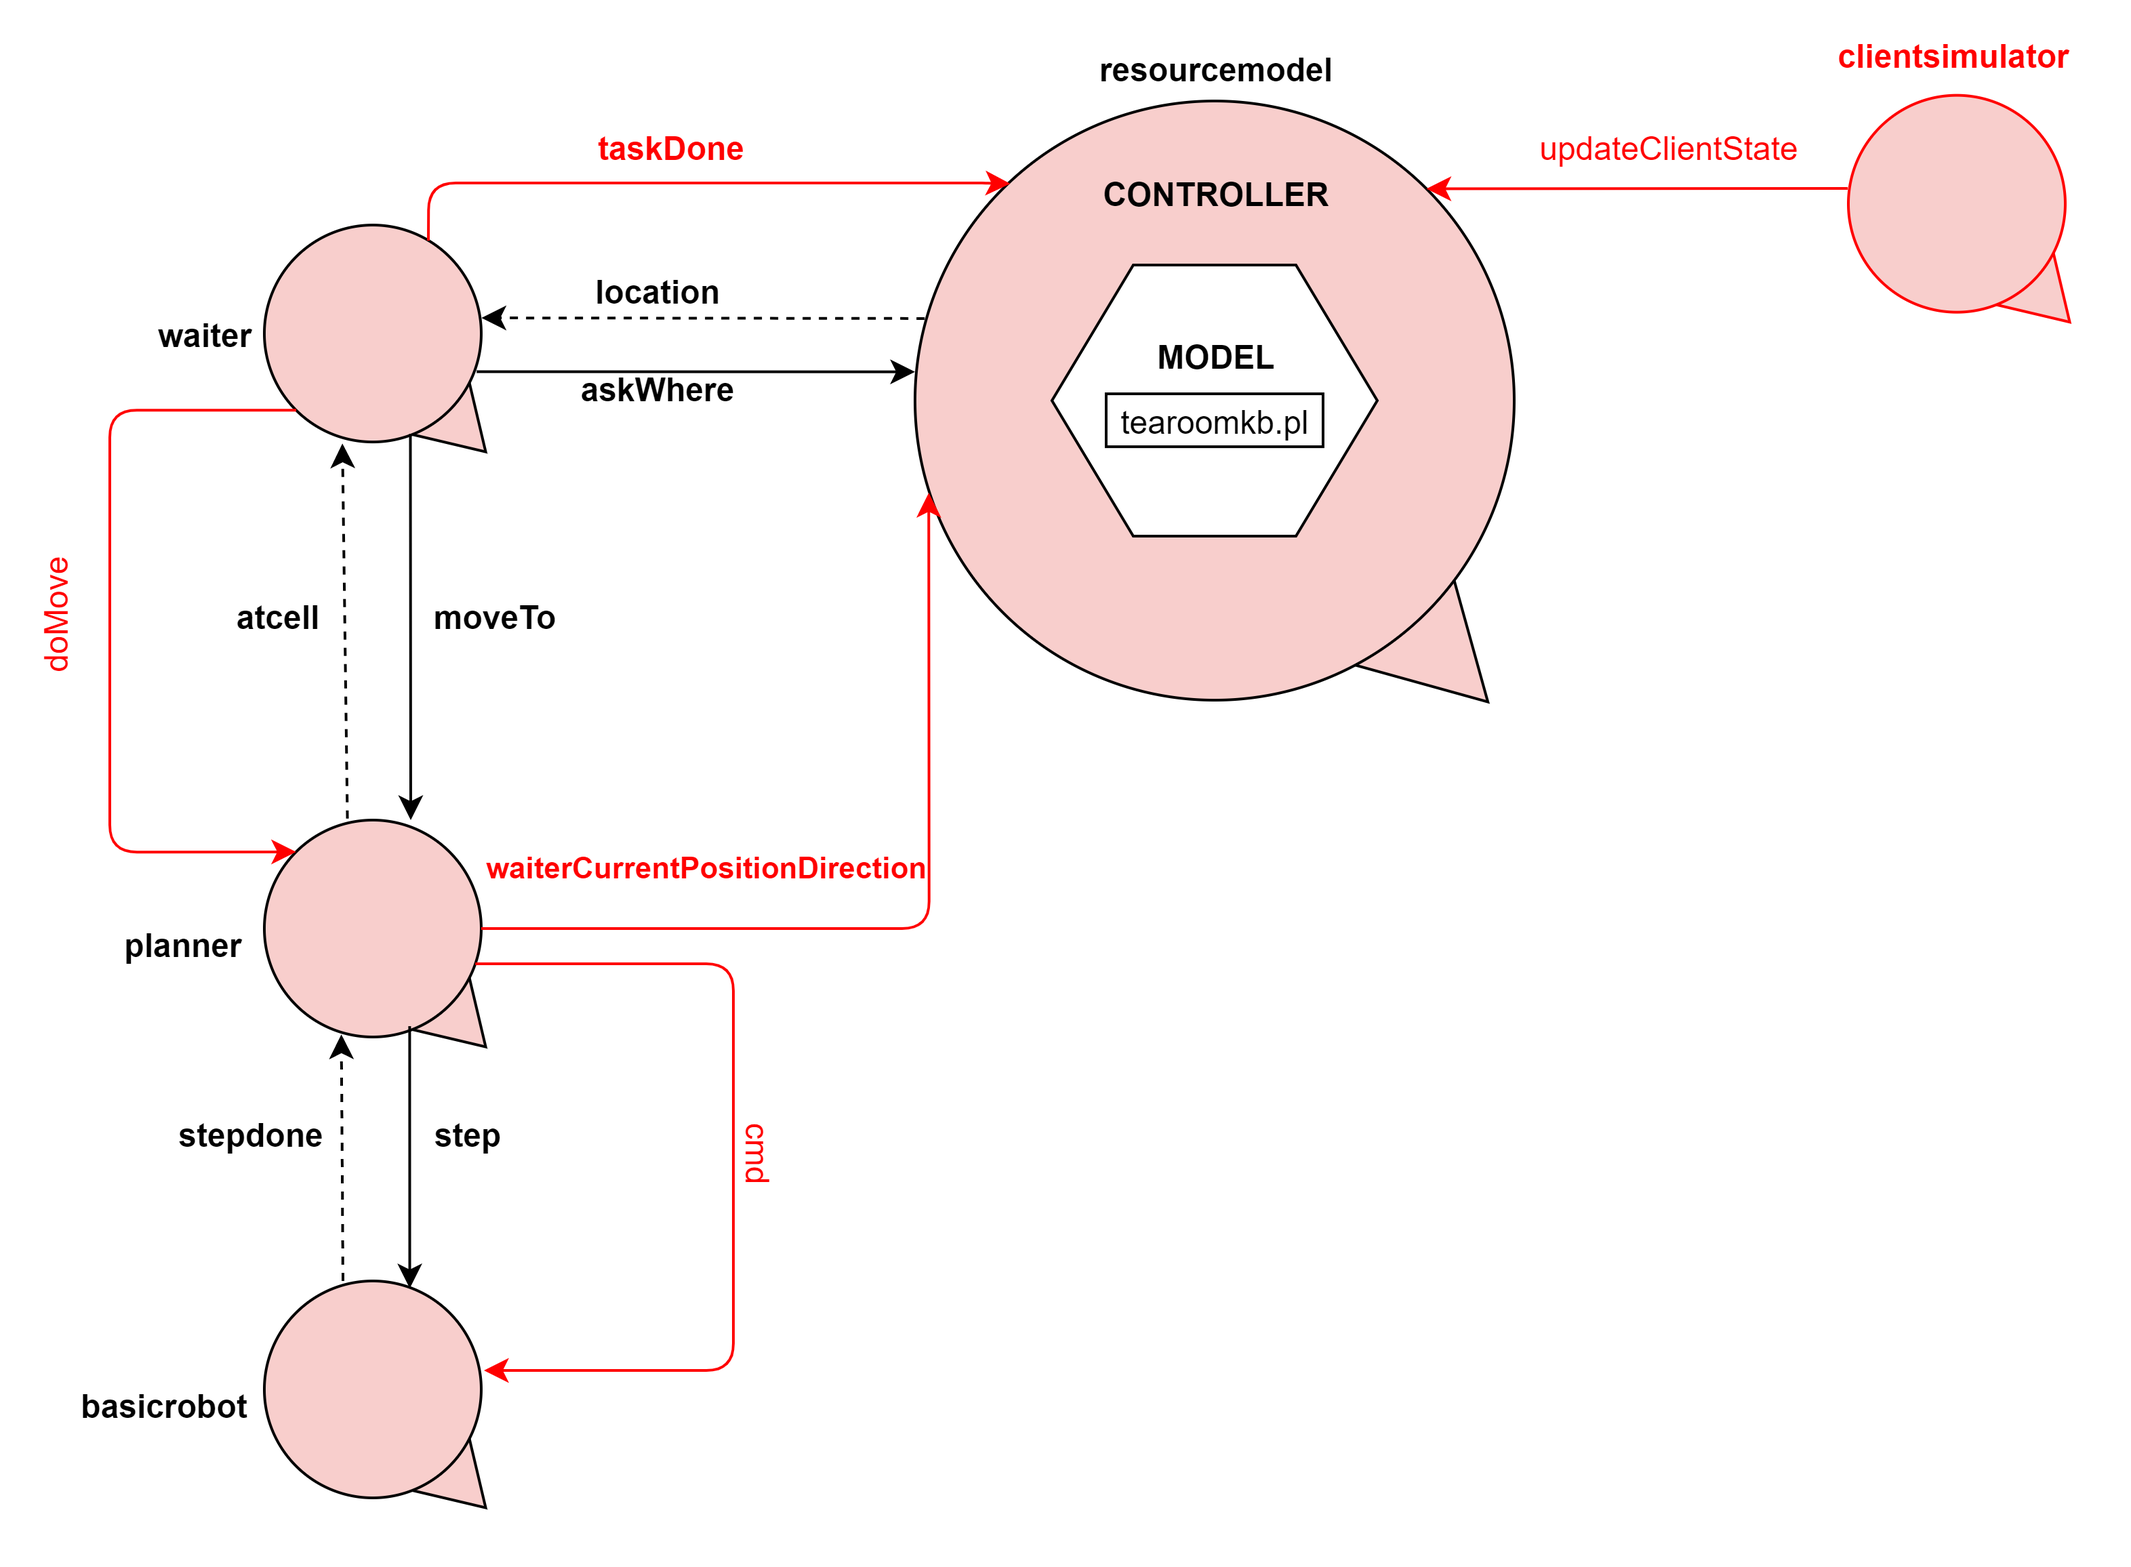
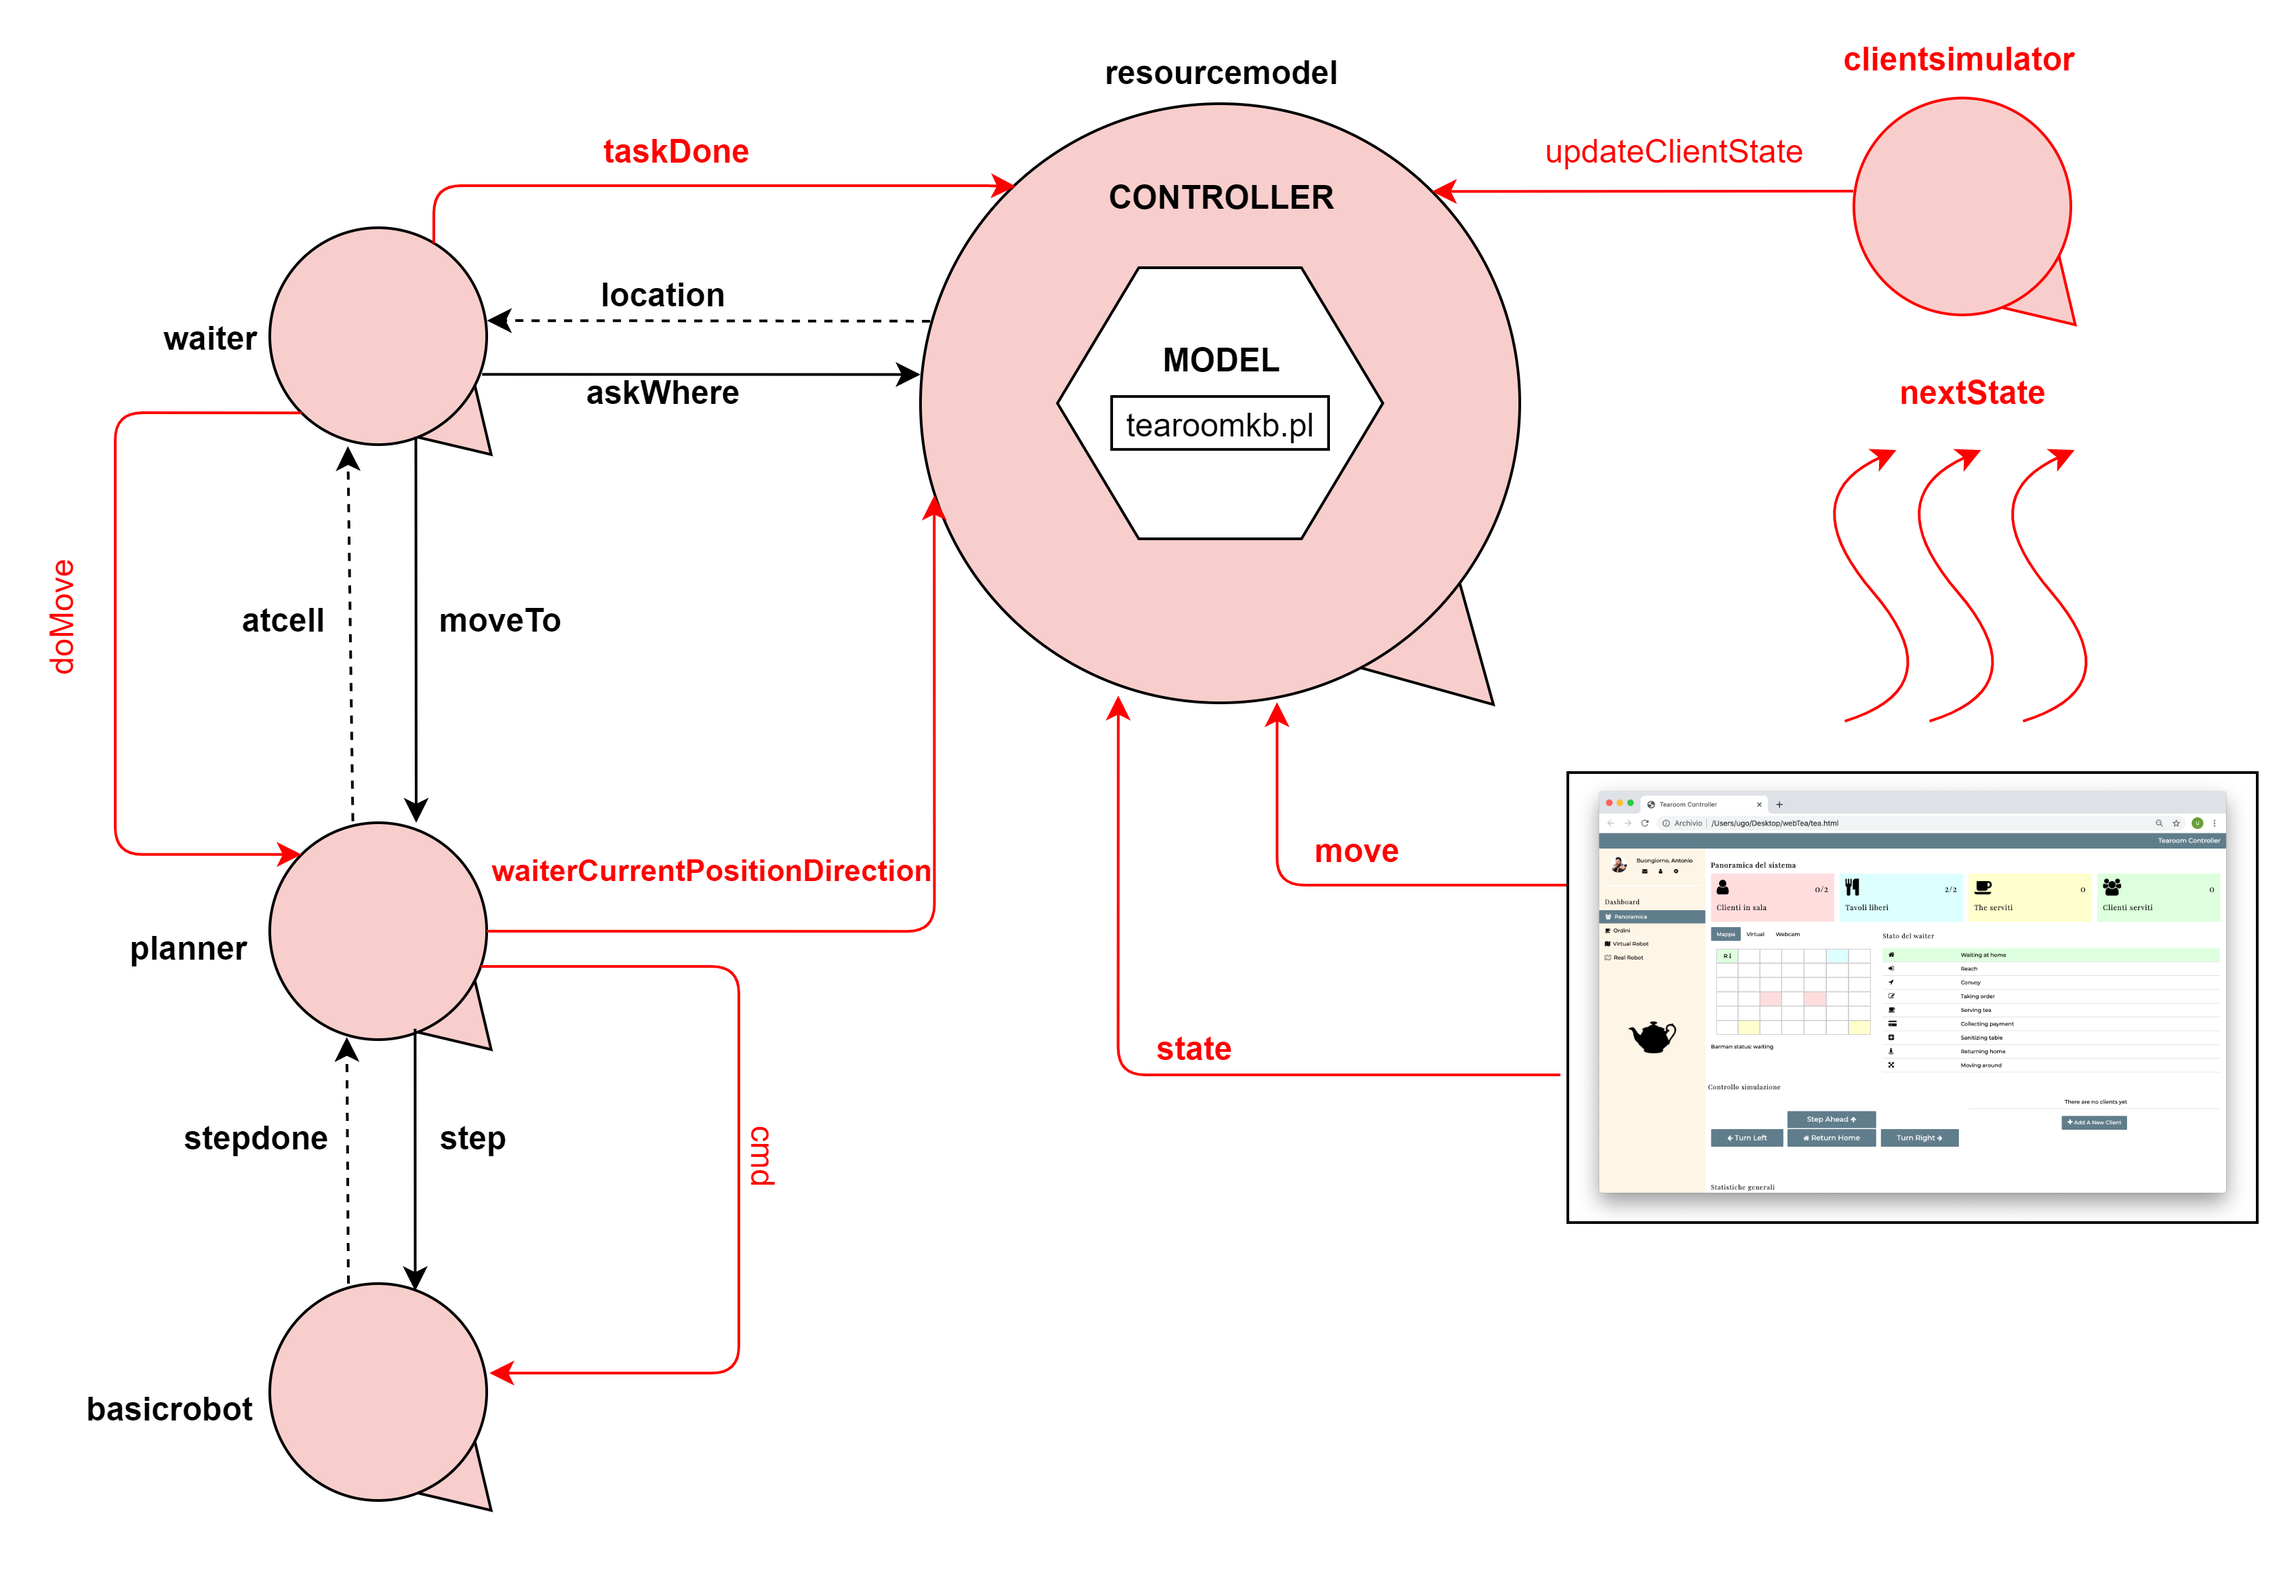
aggiornamento documento sprint2.html con immagini

diff --git a/Relazioni/Sprint2/sprint2.html b/Relazioni/Sprint2/sprint2.html
@@ -169,7 +169,7 @@ QActor <k>resourcemodel</k> context ctxresourcemodel{
                 <ul>
                     <li>Far progredire manualmente gli stati del <bc>clientsimulator</bc> tramite un tasto.</li>
                     <li>Aggiungere un controllo manuale del robot.</li></br>
-                    <center><img src="img/nuova_gui.png" alt="nuova_gui.png" width="90%" height="52%" /></center></br>                   
+                    <center><img src="img/gui_final.jpg" alt="gui_final.jpg" width="100%" height="60%" /></center></br>                   
                 </ul>
             </ul>
         </div>
